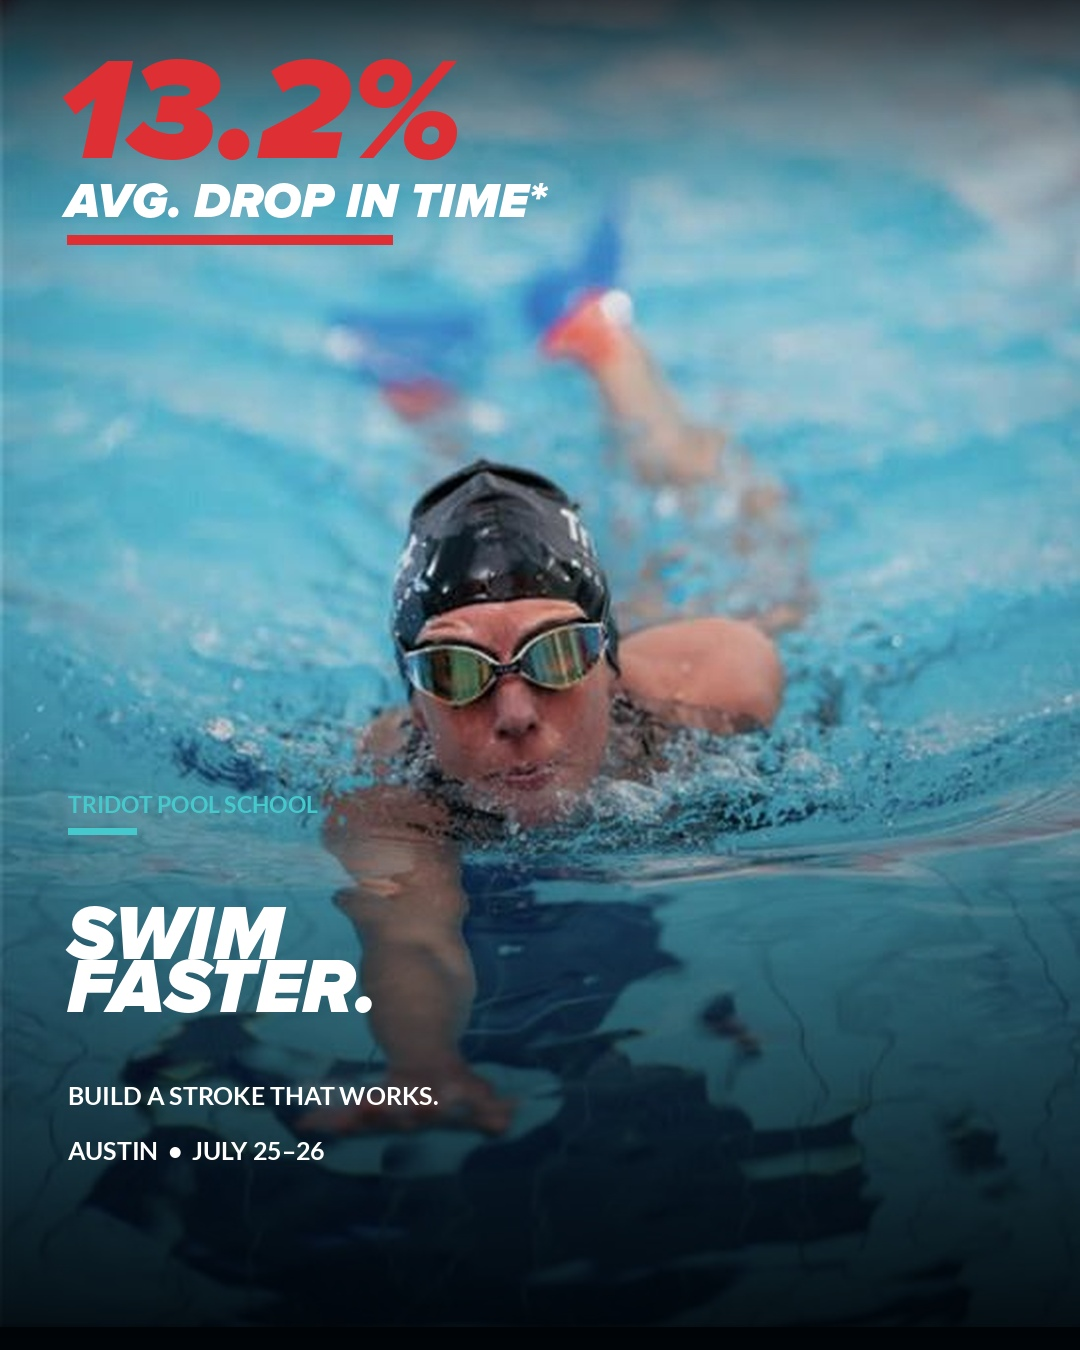
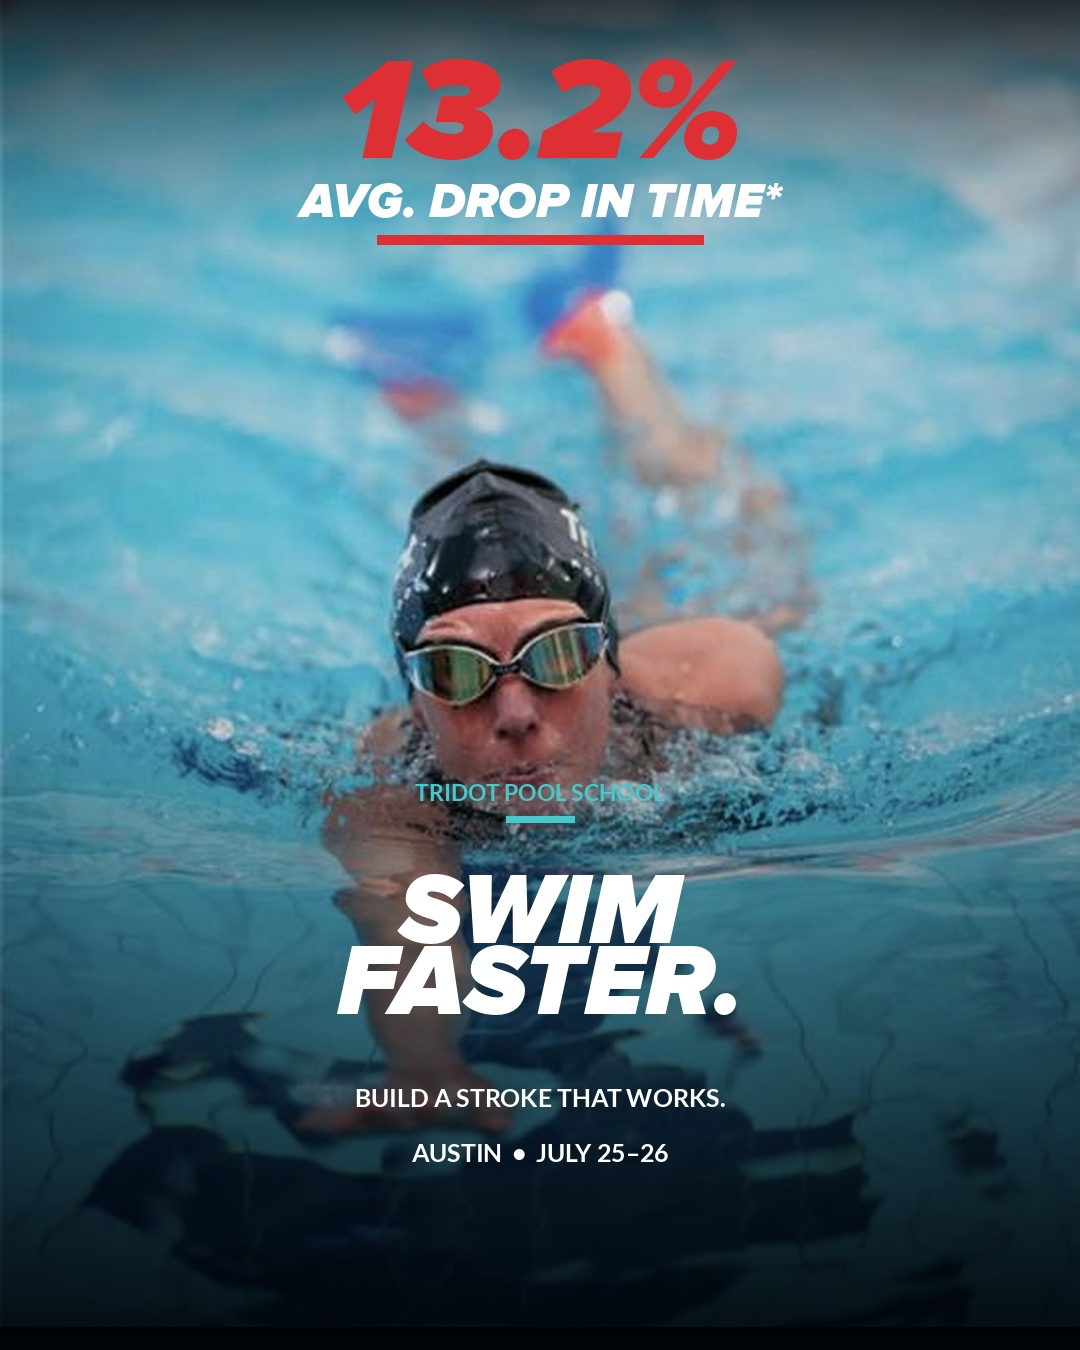
Center and enlarge Swim Faster post lockup

diff --git a/austin-pool-school-review/index.html b/austin-pool-school-review/index.html
@@ -15,5 +15,5 @@ const posts=[
 ['08-detail-matters.jpg','VALUE','The details make the difference','Small technique changes can lead to meaningful progress. Get focused coaching and drills designed to help you apply it back in your own training.'],
 ['09-personal-feedback.jpg','VALUE','Real-time feedback','See it. Understand it. Practice it. Bring your swim questions to Austin and leave with practical tools for your next session.'],
 ['10-austin-register-now.jpg','EVENT PROMO','Austin Pool School: Register now','July 25–26, 2026 · Austin Aquatics and Sports Academy · $599\n\nYour next opportunity to break out of the dreaded swim plateau starts here. Register now.']
-];let i=0;const $=id=>document.getElementById(id);function render(){let p=posts[i];$('title').textContent=`Post ${i+1} of ${posts.length}`;$('graphic').src='./assets/'+p[0]+'?v=dark-footer-refined-20260710';$('headline').textContent=p[2];$('caption').textContent=p[3];$('type').textContent=p[1];$('prev').disabled=i===0;$('next').disabled=i===posts.length-1;$('thumbs').innerHTML=posts.map((x,n)=>`<button class="thumb ${n===i?'active':''}" aria-label="View post ${n+1}" onclick="go(${n})"><img src="./assets/${x[0]}?v=dark-footer-refined-20260710"></button>`).join('')};function go(n){i=n;render()}$('prev').onclick=()=>go(i-1);$('next').onclick=()=>go(i+1);document.addEventListener('keydown',e=>{if(e.key==='ArrowLeft'&&i)go(i-1);if(e.key==='ArrowRight'&&i<posts.length-1)go(i+1)});render();
+];let i=0;const $=id=>document.getElementById(id);function render(){let p=posts[i];$('title').textContent=`Post ${i+1} of ${posts.length}`;$('graphic').src='./assets/'+p[0]+'?v=centered-swim-lockup-20260710';$('headline').textContent=p[2];$('caption').textContent=p[3];$('type').textContent=p[1];$('prev').disabled=i===0;$('next').disabled=i===posts.length-1;$('thumbs').innerHTML=posts.map((x,n)=>`<button class="thumb ${n===i?'active':''}" aria-label="View post ${n+1}" onclick="go(${n})"><img src="./assets/${x[0]}?v=centered-swim-lockup-20260710"></button>`).join('')};function go(n){i=n;render()}$('prev').onclick=()=>go(i-1);$('next').onclick=()=>go(i+1);document.addEventListener('keydown',e=>{if(e.key==='ArrowLeft'&&i)go(i-1);if(e.key==='ArrowRight'&&i<posts.length-1)go(i+1)});render();
 </script></body></html>
